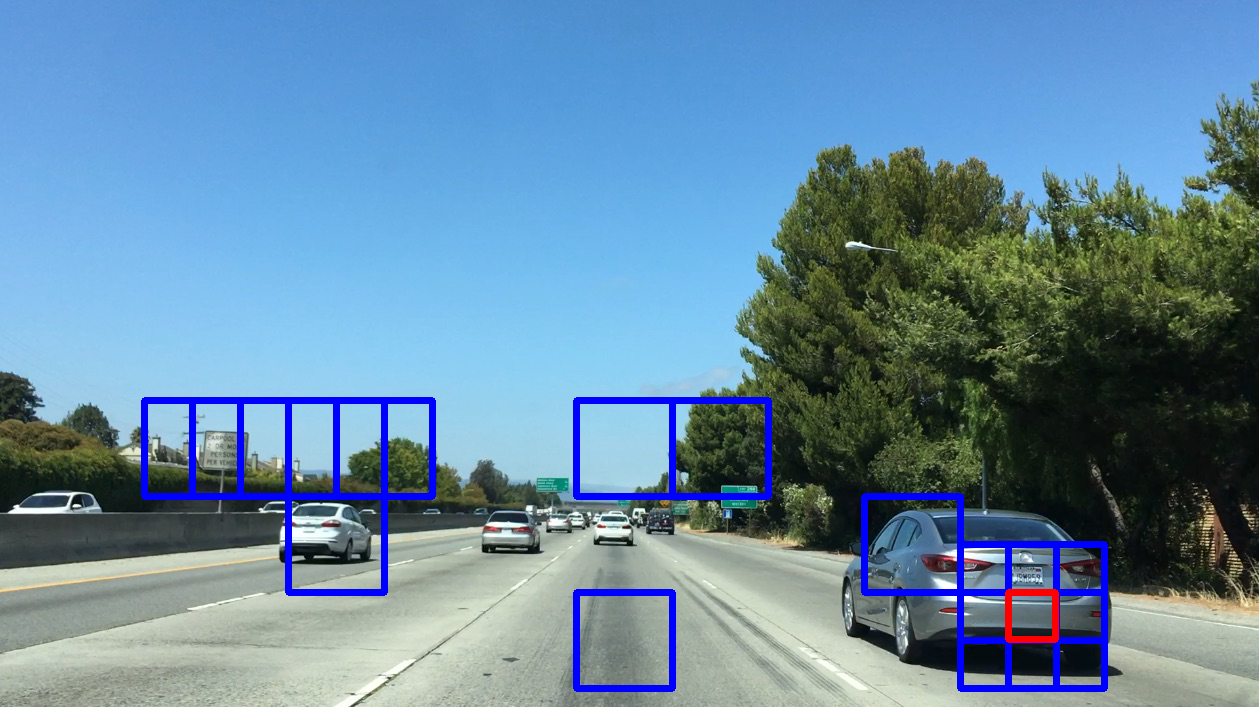
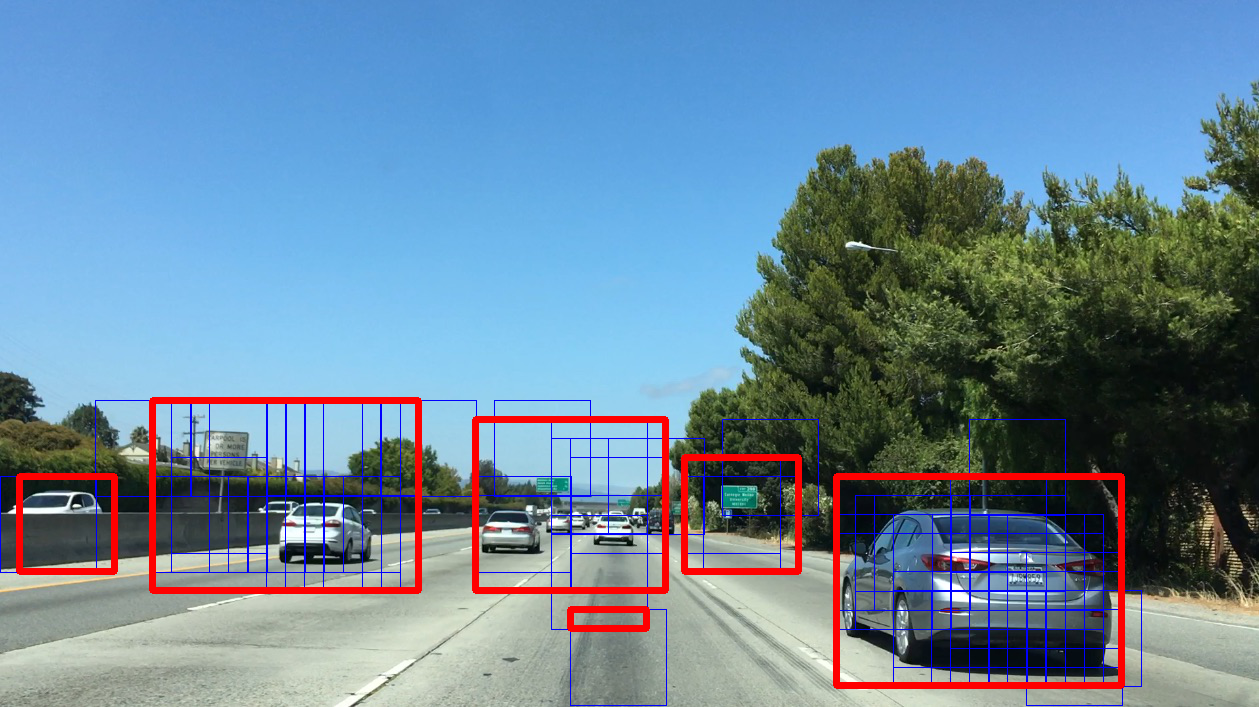
increased overlap which helps _a lot_! to detect cars

Changed region(s): [[0.0, 0.5601, 0.8983, 1.0]]

diff --git a/Term1/Project5_Vehicle_Detection_and_Tracking_Project/vedet_main.py b/Term1/Project5_Vehicle_Detection_and_Tracking_Project/vedet_main.py
@@ -244,8 +244,8 @@ else:
 
 
 
-doitonthevideo = True
-#doitonthevideo = False
+#doitonthevideo = True
+doitonthevideo = False
 
 if doitonthevideo == False:
     testimages = glob.glob('./test_images/*.jpg', recursive=True)
@@ -263,18 +263,18 @@ if doitonthevideo == False:
         # image you are searching is a .jpg (scaled 0 to 255)
         image = image.astype(np.float32)/255
         windows = slide_window(image, x_start_stop=[None, None], y_start_stop=y_start_stop,
-                               xy_window=(96, 96), xy_overlap=(0.5, 0.5))
+                               xy_window=(96, 96), xy_overlap=(0.8, 0.8))
         hot_windows = search_windows(image, windows, svc, X_scaler, color_space=color_space,
                                      spatial_size=spatial_size, hist_bins=hist_bins,
                                      orient=orient, pix_per_cell=pix_per_cell,
                                      cell_per_block=cell_per_block,
                                      hog_channel=hog_channel, spatial_feat=spatial_feat,
                                      hist_feat=hist_feat, hog_feat=hog_feat)
-        window_img = draw_boxes(draw_image, hot_windows, color=(0, 0, 255), thick=6)
+        window_img = draw_boxes(draw_image, hot_windows, color=(0, 0, 255), thick=1)
         heat = np.zeros_like(dst[:, :, 0]).astype(np.float)
         heat = add_heat(heat, hot_windows)
         # Apply threshold to help remove false positives
-        heat = apply_threshold(heat, 2)
+        heat = apply_threshold(heat, 1)
         # Visualize the heatmap when displaying
         heatmap = np.clip(heat, 0, 1)
         # Find final boxes from heatmap using label function
